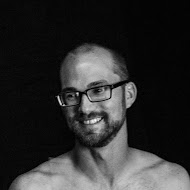
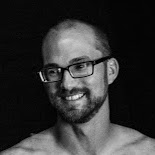
Tweaking the pictures for the 2016 team.

diff --git a/_includes/css/agency.css b/_includes/css/agency.css
@@ -675,6 +675,8 @@ section h3.section-subheading {
 
 .team-member img {
     margin: 0 auto;
+    width: 200px;
+    height: 200px;
     border: 7px solid #fff;
     box-shadow: 0 0 0 1px hsl(0, 0%, 70%);
 }
